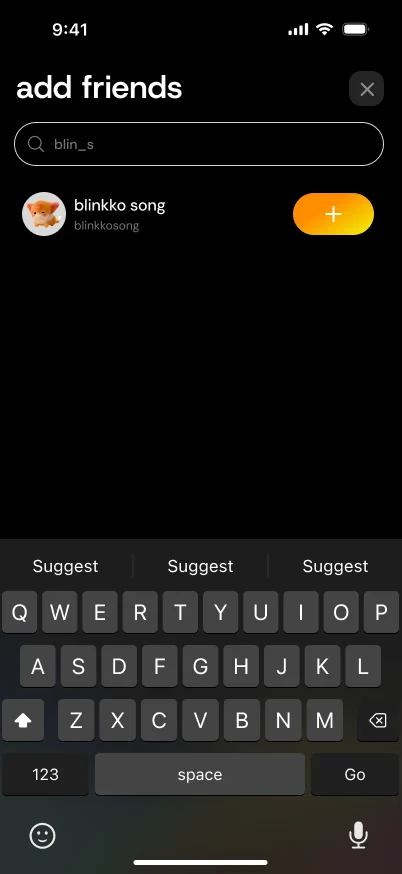
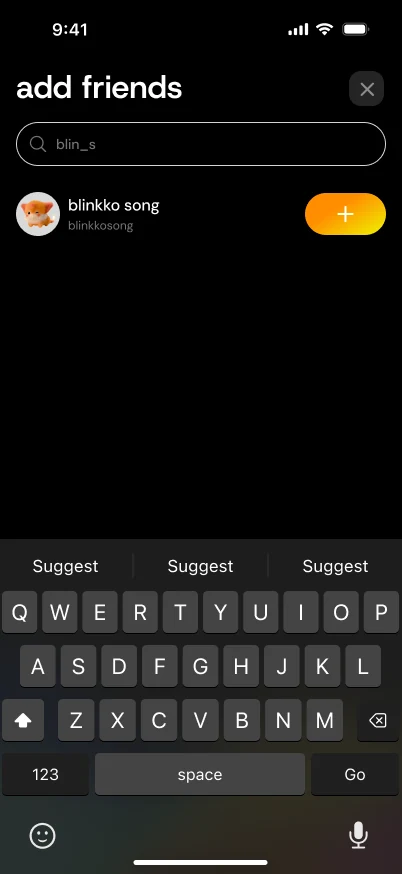
Blinkko: align the add-friend screens to a 16px margin
Re-exported from Figma after lining up the search bar, list rows and
buttons across the three screens.

diff --git a/projects/blinkko/index.html b/projects/blinkko/index.html
@@ -2621,16 +2621,16 @@
                     <div class="proto">
                         <button class="proto-phone" type="button" aria-label="Step add-friend prototype">
                             <span class="proto-stage">
-                                <img loading="lazy" decoding="async" class="is-on" src="chat/add-search.webp" alt="Add friends: search a user ID">
-                                <img loading="lazy" decoding="async" src="chat/add-sent.webp" alt="Request sent">
-                                <img loading="lazy" decoding="async" src="chat/add-invites.webp" alt="Invitations, each showing where the request came from">
+                                <img loading="lazy" decoding="async" class="is-on" src="chat/add-search.webp?v=2" alt="Add friends: search a user ID">
+                                <img loading="lazy" decoding="async" src="chat/add-sent.webp?v=2" alt="Request sent">
+                                <img loading="lazy" decoding="async" src="chat/add-invites.webp?v=2" alt="Invitations, each showing where the request came from">
                             </span>
                         </button>
                         <p class="proto-hint">Without a device: search a user ID → request sent → they accept from Invitations</p>
                         <div class="phone-row proto-strip">
-                            <div class="phone-stage is-current"><div class="phone-frame"><img loading="lazy" decoding="async" src="chat/add-search.webp" alt=""></div></div>
-                            <div class="phone-stage"><div class="phone-frame"><img loading="lazy" decoding="async" src="chat/add-sent.webp" alt=""></div></div>
-                            <div class="phone-stage"><div class="phone-frame"><img loading="lazy" decoding="async" src="chat/add-invites.webp" alt=""></div></div>
+                            <div class="phone-stage is-current"><div class="phone-frame"><img loading="lazy" decoding="async" src="chat/add-search.webp?v=2" alt=""></div></div>
+                            <div class="phone-stage"><div class="phone-frame"><img loading="lazy" decoding="async" src="chat/add-sent.webp?v=2" alt=""></div></div>
+                            <div class="phone-stage"><div class="phone-frame"><img loading="lazy" decoding="async" src="chat/add-invites.webp?v=2" alt=""></div></div>
                         </div>
                     </div>
 
